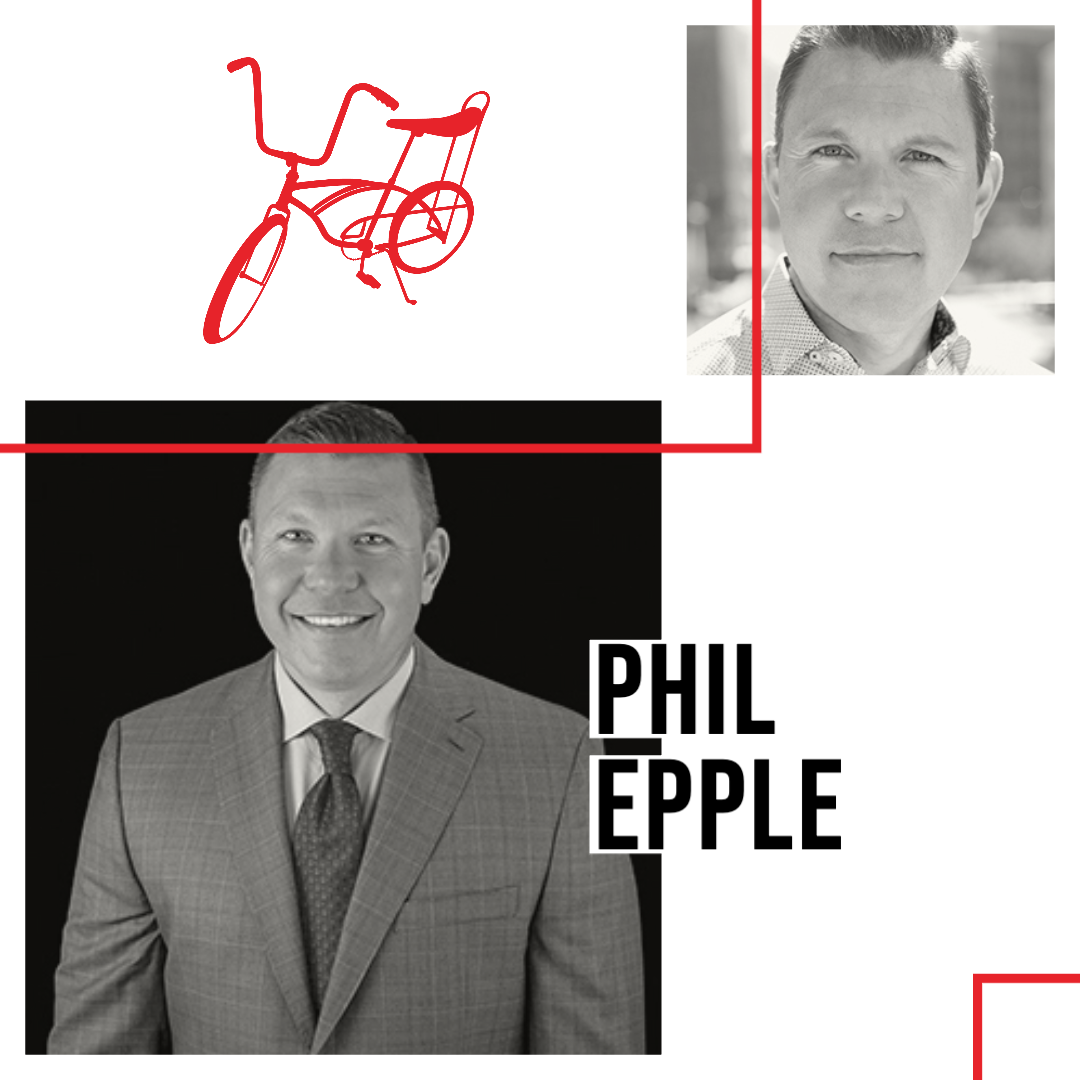
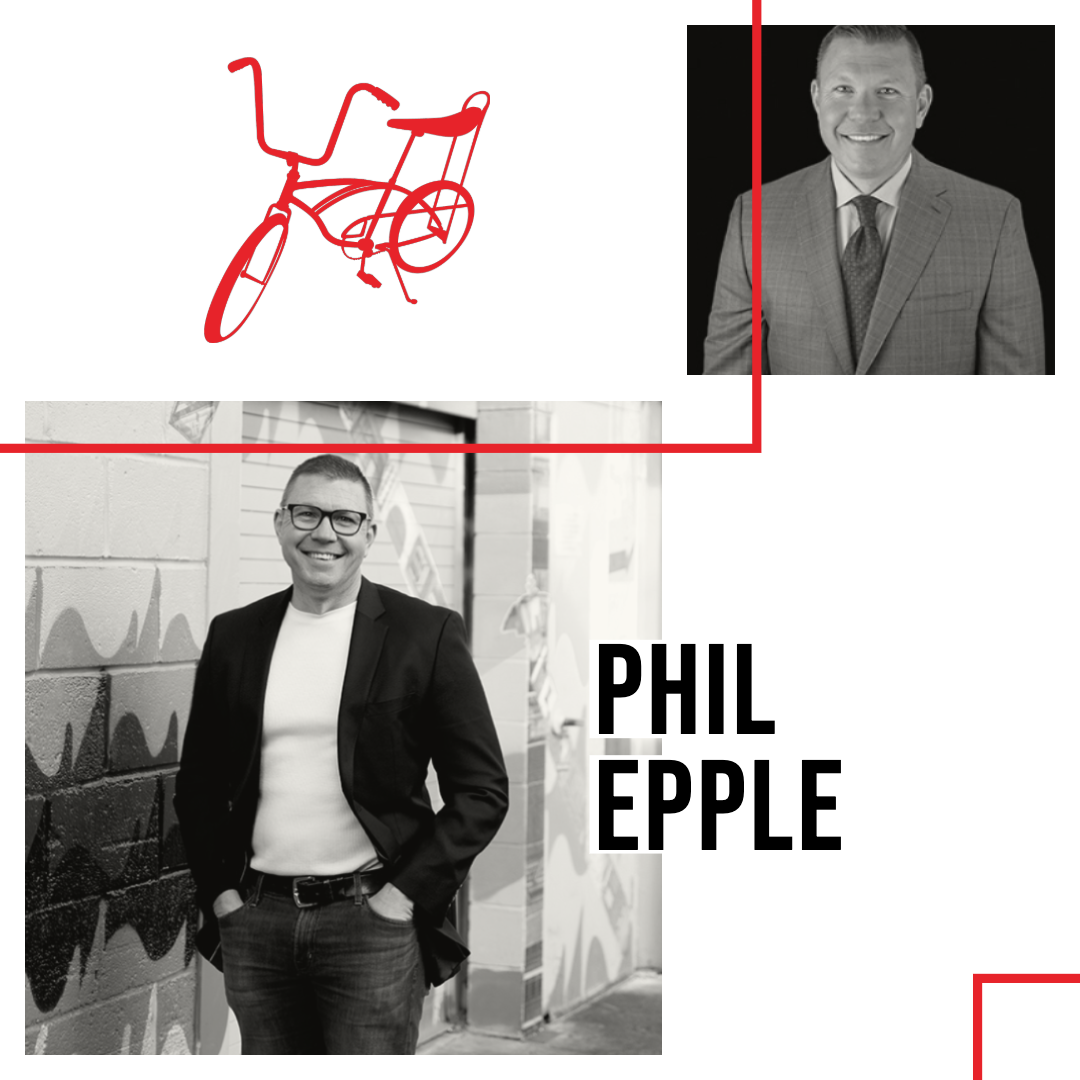
team updates

diff --git a/index.html b/index.html
@@ -120,7 +120,7 @@
 
           <header class="sec-heading">
             <h2>What we do</h2>
-            <span class="subheading">FJG Advertising is a full service agency with in-house digital, traditional and media buying offering, an advantage to clients in today’s competitive advertising landscape.</span>
+            <span class="subheading">FJG Advertising is a full service agency with in-house digital, traditional and media buying, offering an advantage to clients in today's competitive advertising landscape.</span>
           </header>
 
           <div class="row">
@@ -174,10 +174,10 @@
 
           <!-- Image -->
           <div class="t-image">
-            <img src="assets/images/team/brian.jpg" alt="Team Member" class="img-responsive">
+            <img src="assets/images/team/brian.jpg" alt="Brian Profile Photo" class="img-responsive">
             <div class="t-description">
               <div class="content-wrapper">
-                <img src="assets/images/team/brian-urban.jpg" alt="Brian Casual Photo" class="img-responsive">
+                <img src="assets/images/team/brain_urban.jpg" alt="Brian Personality Photo" class="img-responsive">
               </div>
             </div>
           </div>
@@ -228,10 +228,10 @@
 
           <!-- Image -->
           <div class="t-image">
-            <img src="assets/images/team/phil.jpg" alt="Team Member" class="img-responsive">
+            <img src="assets/images/team/phil.jpg" alt="Phil Profile Photo" class="img-responsive">
             <div class="t-description">
               <div class="content-wrapper">
-                <img src="assets/images/team/phil_urban.jpg" alt="Phil Casual Photo" class="img-responsive">
+                <img src="assets/images/team/phil_urban.jpg" alt="Phil Personality Photo" class="img-responsive">
               </div>
             </div>
           </div>
@@ -257,10 +257,10 @@
 
           <!-- Image -->
           <div class="t-image">
-            <img src="assets/images/team/tripp.jpg" alt="Team Member" class="img-responsive">
+            <img src="assets/images/team/tripp.jpg" alt="Tripp Profile Photo" class="img-responsive">
             <div class="t-description">
               <div class="content-wrapper">
-                <img src="http://placehold.it/294x360" alt="Team Member" class="img-responsive">
+                <img src="assets/images/team/tripp_urban.jpg" alt="Tripp Personality Photo" class="img-responsive">
               </div>
             </div>
           </div>
@@ -268,7 +268,7 @@
           <!-- Info -->
           <div class="t-info">
             <h4 class="t-name">Tripp Delcore</h4>
-            <span class="t-role">Web Developer</span>
+            <span class="t-role">Digital Integration Director</span>
             <ul class="social-links">
               <li><a href="https://www.linkedin.com/in/michaeldelcore/"><i class="fa fa-linkedin"></i></a></li>
               <li><a href="tripp-bio.html"><i class="fa fa-address-card"></i></a></li>
@@ -287,10 +287,10 @@
 
           <!-- Image -->
           <div class="t-image">
-            <img src="assets/images/team/rocky.jpg" alt="Team Member" class="img-responsive">
+            <img src="assets/images/team/rocky.jpg" alt="Rocky Profile Photo" class="img-responsive">
             <div class="t-description">
               <div class="content-wrapper">
-                <img src="assets/images/team/rocky_urban.jpg" alt="Rocky Casual Photo" class="img-responsive">
+                <img src="assets/images/team/rocky_urban.jpg" alt="Rocky Personality Photo" class="img-responsive">
               </div>
             </div>
           </div>
@@ -298,7 +298,7 @@
           <!-- Info -->
           <div class="t-info">
             <h4 class="t-name">Rocky Namvong</h4>
-            <span class="t-role">Executive Assistant</span>
+            <span class="t-role">Social Manager</span>
             <ul class="social-links">
               <li><a href="https://www.linkedin.com/in/ynamvong/"><i class="fa fa-linkedin"></i></a></li>
               <li><a href="rocky-bio.html"><i class="fa fa-address-card"></i></a></li>
@@ -316,10 +316,10 @@
 
           <!-- Image -->
           <div class="t-image">
-            <img src="assets/images/team/kristin.jpg" alt="Team Member" class="img-responsive">
+            <img src="assets/images/team/kristin.jpg" alt="Kristin Profile Photo" class="img-responsive">
             <div class="t-description">
               <div class="content-wrapper">
-                <img src="assets/images/team/kristin_urban.jpg" alt="Kristin Casual Photo" class="img-responsive">
+                <img src="assets/images/team/kristin_urban.jpg" alt="Kristin Personality Photo" class="img-responsive">
               </div>
             </div>
           </div>
@@ -348,19 +348,19 @@
             <img src="http://placehold.it/360x440" alt="Team Member" class="img-responsive">
             <div class="t-description">
               <div class="content-wrapper">
-                <img src="http://placehold.it/294x360" alt="Team Member" class="img-responsive">
+                <img src="assets/images/team/quaid_urban.jpg" alt="Team Member" class="img-responsive">
               </div>
             </div>
           </div>
 
           <!-- Info -->
           <div class="t-info">
-            <h4 class="t-name">Jane Doe</h4>
-            <span class="t-role">Lead Designer</span>
-            <ul class="social-links">
+            <h4 class="t-name">Quaid Meyer</h4>
+            <span class="t-role">Director of Security </span>
+            <!-- <ul class="social-links">
               <li><a href="#"><i class="fa fa-linkedin"></i></a></li>
               <li><a href="#"><i class="fa fa-address-card"></i></a></li>
-            </ul>
+            </ul> -->
           </div>
 
         </div><!-- / .t-item -->
@@ -377,7 +377,7 @@
             <div class="t-description">
               <a href="mailto:jobs@fjgadvertising.com?Subject=Website Job Inquiry" target="_top">
               <h4 class="h-alt">Apply Now</h4></a>
-              <p>We are allways looking for passionate lorem ipsum dolor sit amet, consectetur dolor adipisicing elit. Architecto aliquam voluptas doloribus maiores sit.</p>
+              <p>We are always looking for passionate creative and strategic minds to join our team. If you think you have the talent, send us your resume.</p>
             </div>
           </div>
 

diff --git a/new_physicians.html b/new_physicians.html
@@ -117,8 +117,8 @@
 
               <!-- Image 2 -->
               <div class="project-item wow fadeInUp" data-wow-duration="1.3s">
-                <img src="assets/portfolio-images/new-physicians/new-physicians-2.jpg" alt="Half Page Magazine Ad" class="img-responsive">
-                <h5>Half Page Magazine Ad</h5>
+                <img src="assets/portfolio-images/new-physicians/new_physicians_magazine_half-page-ad.gif" alt="Half Page Magazine Ad" class="img-responsive">
+                <h5>Magazine Ad</h5>
                 <!-- <p>Lorem ipsum dolor sit amet, consectetur adipisicing elit, sed do eiusmod tempor incididunt ut labore et dolore magna aliqua. Ut enim ad minim veniam.</p> -->
               </div><!-- / .project-item -->
 

diff --git a/csu.html b/csu.html
@@ -172,8 +172,8 @@
               <!-- Image 1 -->
               <div class="project-item wow fadeInUp" data-wow-duration="1.3s">
                 <img src="assets/portfolio-images/csu/190463_CSU_Online_MTM_Display_Apply_By_Context.jpg" alt="Display Advertising" class="img-responsive">
-                <h5></h5>
-              </div>Display Advertisingr<!-- / .project-item -->
+                <h5>Display Advertising</h5>
+              </div><!-- / .project-item -->
               
               <div class="col-md-8">
                 <!-- Image 7 -->

diff --git a/brian-bio.html b/brian-bio.html
@@ -88,7 +88,7 @@
             
             <header class="sec-heading">
               <!-- <h2 class="bio-heading">Brian Dougherty</h2> -->
-              <img src="assets/images/team/brian-bio.png" alt="Team Member" class="img-responsive bio-image">
+              <img src="assets/images/team/brian-bio.png" alt="Brian Header Image" class="img-responsive bio-image">
               <h2 class="bio-heading">Chief Executive Officer</h2>
               <!-- <span class="subheading">Cheif Executive Officer</span> -->
             </header>

diff --git a/rocky-bio.html b/rocky-bio.html
@@ -88,7 +88,7 @@
             
             <header class="sec-heading">
               <!-- <h2 class="bio-heading">Brian Dougherty</h2> -->
-              <img src="assets/images/team/rocky-bio.png" alt="Team Member" class="img-responsive bio-image">
+              <img src="assets/images/team/rocky-bio.png" alt="Rocky Header Image" class="img-responsive bio-image">
               <h2 class="bio-heading">Social Media Manager</h2>
               <!-- <span class="subheading">Cheif Executive Officer</span> -->
             </header>

diff --git a/phil-bio.html b/phil-bio.html
@@ -88,7 +88,7 @@
             
             <header class="sec-heading">
               <!-- <h2 class="bio-heading">Brian Dougherty</h2> -->
-              <img src="assets/images/team/phil-bio.png" alt="Team Member" class="img-responsive bio-image">
+              <img src="assets/images/team/phil-bio.png" alt="Phil Header Image" class="img-responsive bio-image">
               <h2 class="bio-heading">project Director</h2>
               <!-- <span class="subheading">Cheif Executive Officer</span> -->
             </header>

diff --git a/tripp-bio.html b/tripp-bio.html
@@ -88,7 +88,7 @@
             
             <header class="sec-heading">
               <!-- <h2 class="bio-heading">Brian Dougherty</h2> -->
-              <img src="assets/images/team/tripp-bio.png" alt="Team Member" class="img-responsive bio-image">
+              <img src="assets/images/team/tripp-bio.png" alt="Tripp Header Photo" class="img-responsive bio-image">
               <h2 class="bio-heading">Web Developer</h2>
               <!-- <span class="subheading">Cheif Executive Officer</span> -->
             </header>

diff --git a/our_family.html b/our_family.html
@@ -196,7 +196,7 @@
             <!-- Image 7 -->
             <div class="project-item wow fadeInUp" data-wow-duration="1.3s">
               <iframe src="https://player.vimeo.com/video/384608685" width="750" height="450" frameborder="0" allow="autoplay; fullscreen" allowfullscreen></iframe>
-              <h5>TV Broadcast</h5>
+              <h5>Social Media - Pre-Roll</h5>
       </div><!-- / .project-item -->
     </div>
 
